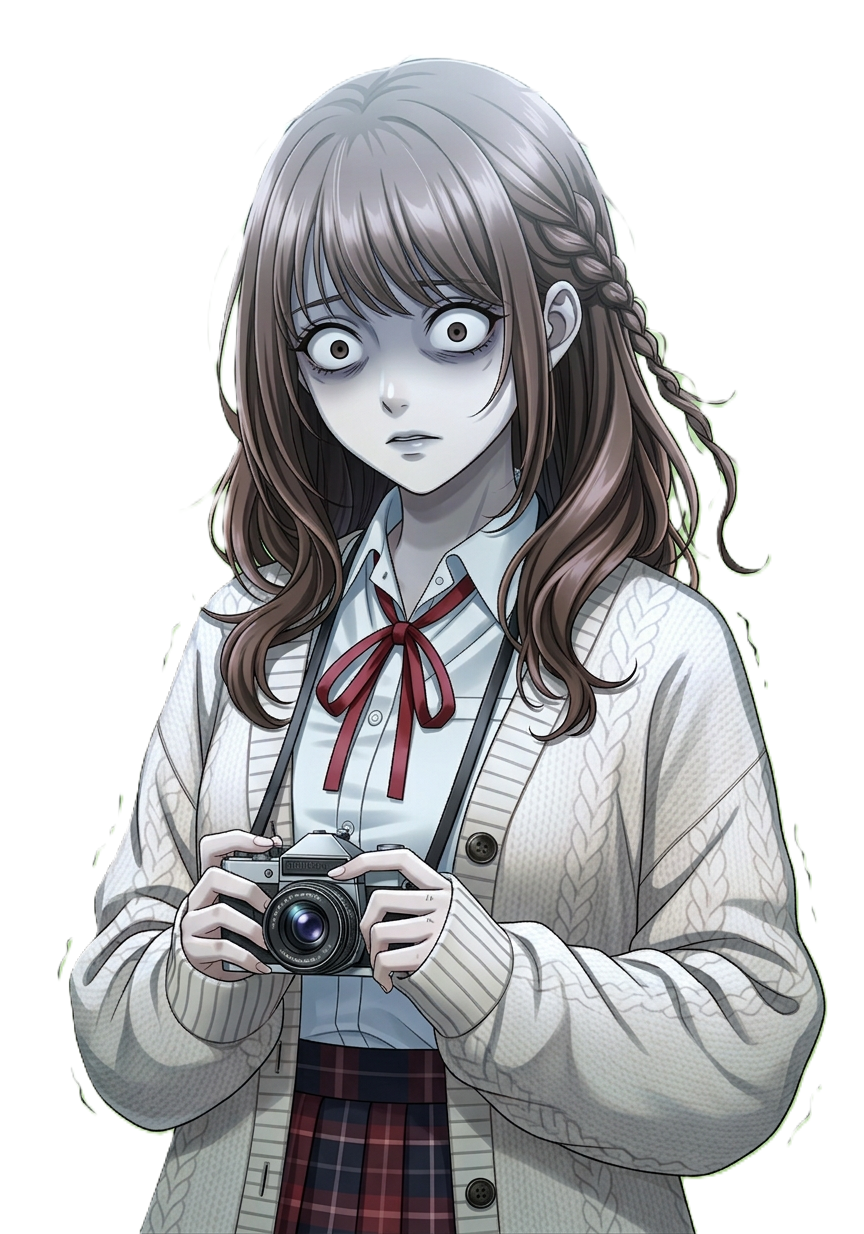
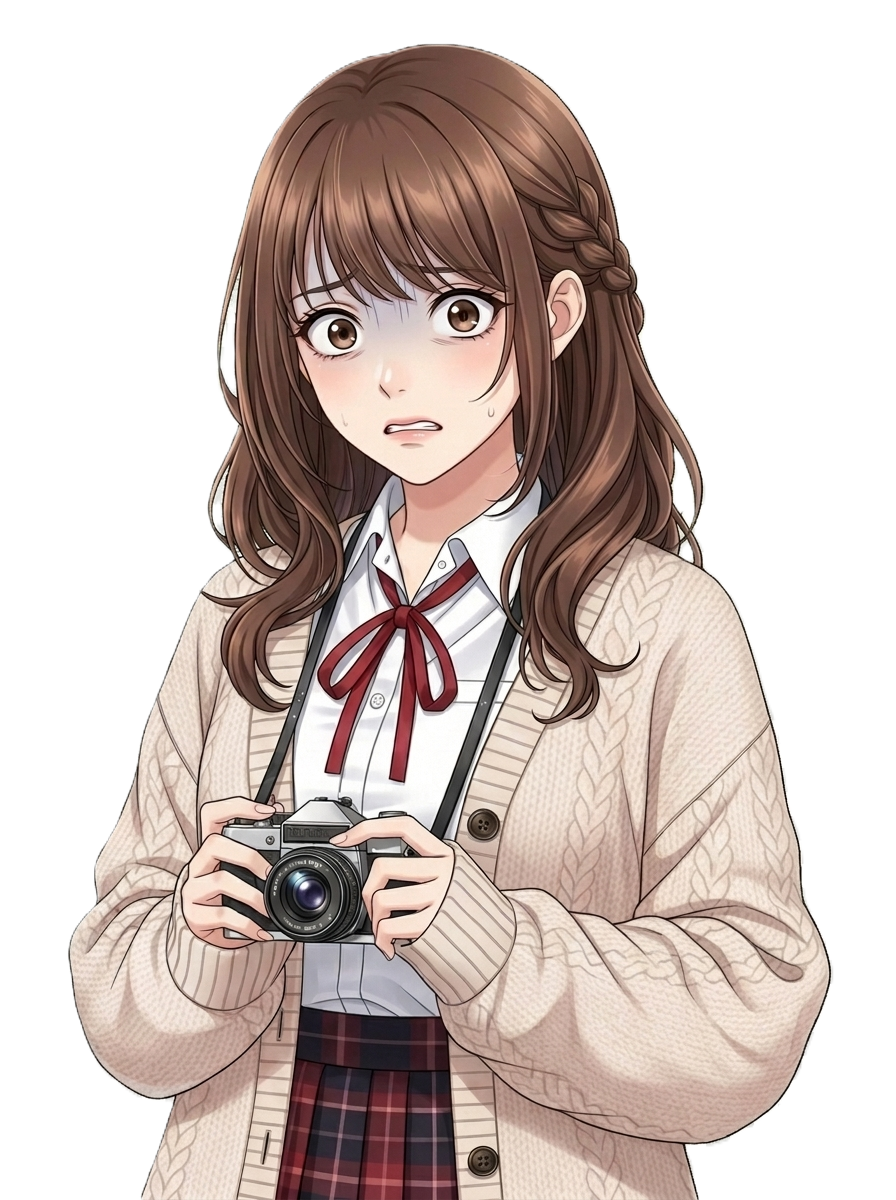
UI 개선: 내레이션 텍스트 색상 및 그림자 효과 조정, 새로운 배경 이미지 추가 및 기존 이미지 경로 수정

diff --git a/assets/js/config.js b/assets/js/config.js
@@ -173,7 +173,7 @@ const CONFIG = {
         white: "assets/images/background/black.png",               // alias: white.png 없음 → black 재사용 (CSS 필터로 반전)
         // 학교 내부 (추가)
         playground: "assets/images/background/outside_school.png",        // alias: playground.png 없음 → outside_school 재사용
-        student_council: "assets/images/background/classroom.png",        // alias: student_council.png 없음 → classroom 재사용
+        student_council: "assets/images/background/student_council.png",
         cafeteria: "assets/images/background/classroom.png",              // alias: cafeteria.png 없음 → classroom 재사용
         old_building_corridor: "assets/images/background/old_building.png", // 구관 복도 (구관 재사용)
         corridor_old: "assets/images/background/old_building.png",         // 구관 복도 alias

diff --git a/assets/js/modules/SceneRenderer.js b/assets/js/modules/SceneRenderer.js
@@ -33,18 +33,8 @@ class SceneRenderer {
             return;
         }
 
-        // 크로스페이드: ::after에 새 배경 설정 후 페이드인
-        this.bgLayer.style.setProperty('--bg-next', newBg);
-        this.bgLayer.classList.remove('bg-crossfade');
-        void this.bgLayer.offsetWidth; // force reflow
-        this.bgLayer.classList.add('bg-crossfade');
-
-        // 페이드 완료 후 메인 배경으로 교체
-        this._bgFadeTimer && clearTimeout(this._bgFadeTimer);
-        this._bgFadeTimer = setTimeout(() => {
-            this.bgLayer.style.backgroundImage = newBg;
-            this.bgLayer.classList.remove('bg-crossfade');
-        }, 420);
+        // 즉시 교체
+        this.bgLayer.style.backgroundImage = newBg;
     }
 
     clearOverlays() {

diff --git a/assets/js/app.js b/assets/js/app.js
@@ -33,6 +33,15 @@ function requestMobileFullscreen() {
     // iOS Safari: Fullscreen API 미지원 — PWA standalone + viewport meta로 대응
 }
 
+// 화면 회전 시 풀스크린 복구
+window.addEventListener('orientationchange', () => {
+    // 이미 게임 화면에 진입한 상태에서만 복구
+    const gameScreen = document.getElementById('game-screen');
+    if (gameScreen && gameScreen.style.display !== 'none' && !document.fullscreenElement) {
+        setTimeout(() => requestMobileFullscreen(), 300);
+    }
+});
+
 /**
  * 이미지 프리로더 — CONFIG.EXPRESSIONS + CONFIG.BACKGROUNDS에서 고유 경로 수집 후 프리로드
  * @param {function(number, number)} onProgress - (loaded, total) 콜백

diff --git a/assets/css/style.css b/assets/css/style.css
@@ -488,11 +488,11 @@ body {
 /* Narration (asterisk-wrapped text) */
 .narration {
     font-style: italic;
-    color: rgba(255, 183, 197, 0.85);
+    color: rgba(255, 220, 230, 0.95);
     text-align: left;
     letter-spacing: 0.02em;
     padding: 0.4rem 1.2rem;
-    text-shadow: 0 1px 4px rgba(0, 0, 0, 0.6);
+    text-shadow: 0 0 3px rgba(0, 0, 0, 1), 0 0 6px rgba(0, 0, 0, 0.8), 0 1px 2px rgba(0, 0, 0, 1), 0 0 12px rgba(0, 0, 0, 0.5);
 }
 
 .speaker-name.hidden {

diff --git a/regen_images.py b/regen_images.py
@@ -1,0 +1,63 @@
+import json, base64, time, os, urllib.request
+
+with open(".env") as f:
+    for line in f:
+        line = line.strip()
+        if line and not line.startswith("#") and "=" in line:
+            key, val = line.split("=", 1)
+            os.environ.setdefault(key.strip(), val.strip())
+
+API_KEY = os.environ.get("GEMINI_API_KEY")
+MODEL = "gemini-3.1-flash-image-preview"
+API_URL = f"https://generativelanguage.googleapis.com/v1beta/models/{MODEL}:generateContent?key={API_KEY}"
+
+NO_TEXT = " STRICTLY NO TEXT of any kind in the image: no letters, words, numbers, labels, signs, exit signs, posters with text, nameplates, logos, watermarks, signatures, or any readable content anywhere in the scene."
+
+IMAGES = [
+    {
+        "name": "assets/images/background/student_council.png",
+        "prompt": "Visual novel background illustration, vivid digital cel shading, anime visual novel style, no characters, wide 16:9 composition, 1920x1080 resolution, cream wall school main building student council room interior, smaller than regular classroom, long wooden meeting table with 6 chairs around it, whiteboard on front wall with markers, wooden shelf with organized binders and documents, school flag in corner, aluminum frame glass window with afternoon sunlight, beige polished linoleum floor, square fluorescent ceiling lights, organized and formal atmosphere but slightly cozy." + NO_TEXT
+    },
+    {
+        "name": "assets/images/background/teacher_office.png",
+        "prompt": "Visual novel background illustration, vivid digital cel shading, anime visual novel style, no characters, wide 16:9 composition, 1920x1080 resolution, cream wall school main building 2nd floor private teacher's office next to faculty room, wooden desk with stacks of papers and red pen steaming coffee cup small potted plant, wooden bookshelf behind with textbooks and files, metal stand lamp creating warm circular light, photo frame with blurry family photo, aluminum frame glass window with afternoon natural light coming in and schoolyard with reddish-brown brick wall visible outside, cozy but formal atmosphere." + NO_TEXT
+    },
+    {
+        "name": "assets/images/characters/yuna_scared.png",
+        "prompt": "Visual novel character illustration, anime style, single female character portrait on transparent background, 3:4 aspect ratio, a Korean high school girl with short wavy auburn hair and soft reddish-brown eyes, wearing standard school uniform (white shirt, dark blazer), showing a naturally anxious and uneasy expression, eyes slightly widened with worry, lips slightly parted, eyebrows furrowed with concern, subtle trembling, NOT horror NOT black and white, natural skin color, soft warm lighting, gentle worried expression not exaggerated." + NO_TEXT
+    }
+]
+
+for i, img in enumerate(IMAGES):
+    out_path = img["name"]
+    print(f"\n[{i+1}/3] Generating {out_path}...")
+
+    payload = {
+        "contents": [{"parts": [{"text": img["prompt"]}]}],
+        "generationConfig": {
+            "responseModalities": ["IMAGE"],
+            "imageConfig": {"aspectRatio": "16:9" if "background" in out_path else "3:4"}
+        }
+    }
+
+    data = json.dumps(payload).encode("utf-8")
+    req = urllib.request.Request(API_URL, data=data, headers={"Content-Type": "application/json"}, method="POST")
+
+    try:
+        with urllib.request.urlopen(req, timeout=120) as resp:
+            result = json.loads(resp.read().decode("utf-8"))
+        for part in result["candidates"][0]["content"]["parts"]:
+            if "inlineData" in part:
+                img_bytes = base64.b64decode(part["inlineData"]["data"])
+                with open(out_path, "wb") as f:
+                    f.write(img_bytes)
+                print(f"  SUCCESS: {len(img_bytes)} bytes")
+                break
+    except Exception as e:
+        print(f"  FAILED: {e}")
+
+    if i < 2:
+        print("  Waiting 10 seconds...")
+        time.sleep(10)
+
+print("\nDone!")

diff --git a/regen_yuna_scared.py b/regen_yuna_scared.py
@@ -1,0 +1,57 @@
+import json, base64, os, urllib.request
+
+with open(".env") as f:
+    for line in f:
+        line = line.strip()
+        if line and not line.startswith("#") and "=" in line:
+            key, val = line.split("=", 1)
+            os.environ.setdefault(key.strip(), val.strip())
+
+API_KEY = os.environ.get("GEMINI_API_KEY")
+MODEL = "gemini-3.1-flash-image-preview"
+API_URL = f"https://generativelanguage.googleapis.com/v1beta/models/{MODEL}:generateContent?key={API_KEY}"
+
+# 레퍼런스 이미지 로드
+ref_path = "assets/images/characters/yuna_normal.png"
+with open(ref_path, "rb") as f:
+    ref_b64 = base64.b64encode(f.read()).decode()
+
+prompt = """Using this reference character image, generate the SAME character (same face, same hair, same body, same outfit, same art style, same color palette) but with a scared/anxious expression.
+
+Changes from reference:
+- Eyes slightly widened with worry and fear
+- Eyebrows raised and furrowed with concern
+- Lips slightly parted, trembling
+- Hands nervously fidgeting or clutching uniform
+- Overall uneasy, anxious body language
+
+Keep EXACTLY the same: face shape, hair color, hair style, eye color, uniform, art style, background (transparent), proportions, lighting.
+STRICTLY NO TEXT of any kind in the image."""
+
+payload = {
+    "contents": [{
+        "parts": [
+            {"inlineData": {"mimeType": "image/png", "data": ref_b64}},
+            {"text": prompt}
+        ]
+    }],
+    "generationConfig": {
+        "responseModalities": ["IMAGE"],
+        "imageConfig": {"aspectRatio": "3:4"}
+    }
+}
+
+data = json.dumps(payload).encode("utf-8")
+req = urllib.request.Request(API_URL, data=data, headers={"Content-Type": "application/json"}, method="POST")
+
+print("Generating yuna_scared with reference...")
+with urllib.request.urlopen(req, timeout=120) as resp:
+    result = json.loads(resp.read().decode("utf-8"))
+
+for part in result["candidates"][0]["content"]["parts"]:
+    if "inlineData" in part:
+        img_bytes = base64.b64decode(part["inlineData"]["data"])
+        with open("assets/images/characters/yuna_scared.png", "wb") as f:
+            f.write(img_bytes)
+        print(f"SUCCESS: {len(img_bytes)} bytes")
+        break

diff --git a/remove_bg_yuna.py b/remove_bg_yuna.py
@@ -1,0 +1,44 @@
+import json, base64, os, urllib.request
+
+with open(".env") as f:
+    for line in f:
+        line = line.strip()
+        if line and not line.startswith("#") and "=" in line:
+            key, val = line.split("=", 1)
+            os.environ.setdefault(key.strip(), val.strip())
+
+API_KEY = os.environ.get("GEMINI_API_KEY")
+MODEL = "gemini-3.1-flash-image-preview"
+API_URL = f"https://generativelanguage.googleapis.com/v1beta/models/{MODEL}:generateContent?key={API_KEY}"
+
+img_path = "assets/images/characters/yuna_scared.png"
+with open(img_path, "rb") as f:
+    img_b64 = base64.b64encode(f.read()).decode()
+
+payload = {
+    "contents": [{
+        "parts": [
+            {"inlineData": {"mimeType": "image/png", "data": img_b64}},
+            {"text": "Remove the background completely from this character image. Make the background fully transparent (alpha channel = 0). Keep only the character with all details preserved. Output as PNG with transparent background."}
+        ]
+    }],
+    "generationConfig": {
+        "responseModalities": ["IMAGE"],
+        "imageConfig": {"aspectRatio": "3:4"}
+    }
+}
+
+data = json.dumps(payload).encode("utf-8")
+req = urllib.request.Request(API_URL, data=data, headers={"Content-Type": "application/json"}, method="POST")
+
+print("Removing background from yuna_scared...")
+with urllib.request.urlopen(req, timeout=120) as resp:
+    result = json.loads(resp.read().decode("utf-8"))
+
+for part in result["candidates"][0]["content"]["parts"]:
+    if "inlineData" in part:
+        img_bytes = base64.b64decode(part["inlineData"]["data"])
+        with open(img_path, "wb") as f:
+            f.write(img_bytes)
+        print(f"SUCCESS: {len(img_bytes)} bytes")
+        break
